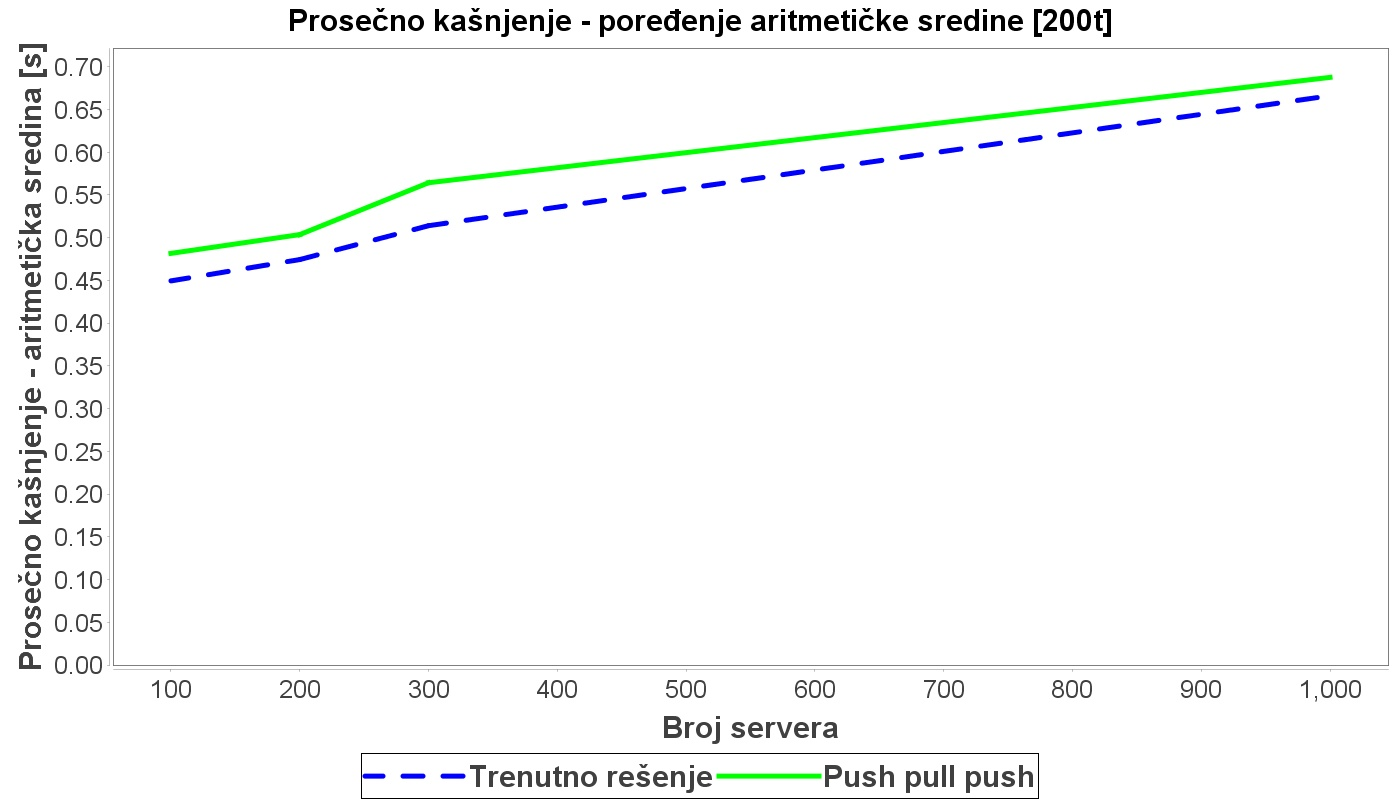
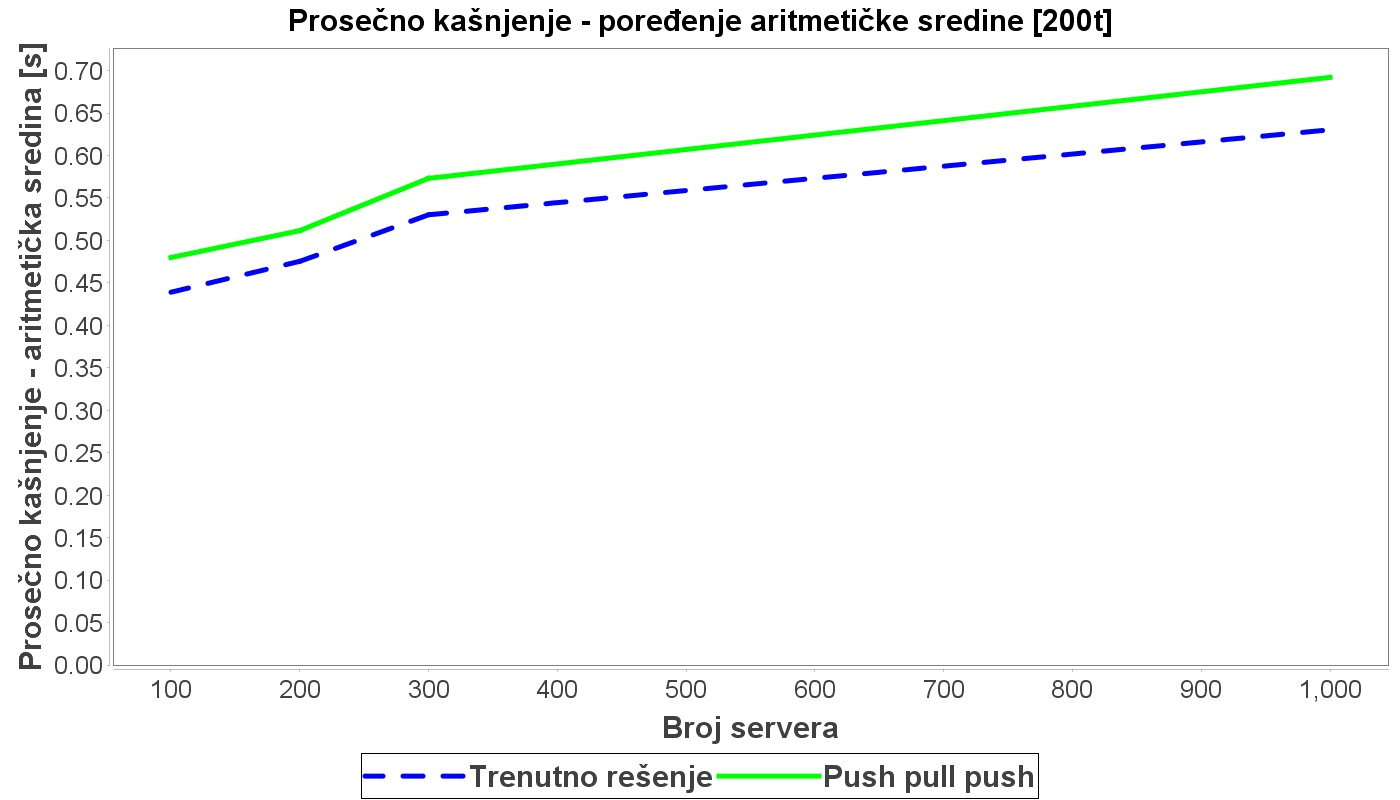
Add files via upload

diff --git a/Simulator/src/ml140036d/Simulator.java b/Simulator/src/ml140036d/Simulator.java
@@ -35,13 +35,13 @@ public class Simulator {
     // funkcija izvrsava jednu simulaciju
     private ArrayList<Server> simulate(int numberOfServers, int numberOfTransactions, SimulationStrategy simulationStrategy) {
         Semaphore toSignal = new Semaphore(-numberOfServers + 1, true);
-        int maximumPeerSubsetSize = Constants.PEER_SUBSET_MULTIPLIER * ((int) Math.log(numberOfServers));
+        int averagePeerSubsetSize = Constants.PEER_SUBSET_MULTIPLIER * ((int) Math.log(numberOfServers));
 
-        if (maximumPeerSubsetSize <= 0) {
-            maximumPeerSubsetSize = 1;
+        if (averagePeerSubsetSize <= 0) {
+            averagePeerSubsetSize = 1;
         }
-        
-        ArrayList<Server> servers = initServers(numberOfServers, simulationStrategy, toSignal, maximumPeerSubsetSize);
+
+        ArrayList<Server> servers = initServers(numberOfServers, simulationStrategy, toSignal, averagePeerSubsetSize);
 
         sendTransactions(servers, numberOfTransactions);
 
@@ -97,7 +97,7 @@ public class Simulator {
                 int peerIndex = ThreadLocalRandom.current().nextInt(0, servers.size());
                 Server peer = servers.get(peerIndex);
 
-                if (server.equals(peer) || server.peerSubsetContains(peer) || peer.getPeerSubset().size() == averagePeerSubsetSize) {
+                if (server.equals(peer) || server.peerSubsetContains(peer) || peer.getPeerSubset().size() == 2 * averagePeerSubsetSize) {
                     i--;
                     continue;
                 }

diff --git a/Simulator/src/ml140036d/util/Constants.java b/Simulator/src/ml140036d/util/Constants.java
@@ -20,7 +20,7 @@ public final class Constants {
 
 
     public static final int SERVER_NUM[] = {100, 200, 300, 1000};
-    public static final int PEER_SUBSET_MULTIPLIER = 3; // {1, 2, 3} -> [ln(n), 2ln(n), 3ln(n)]
+    public static final int PEER_SUBSET_MULTIPLIER = 1; // {1, 2, 3} -> [ln(n), 2ln(n), 3ln(n)]
 
     public static final String SERVER = "S";
     public static final String LN = "ln(n)";
